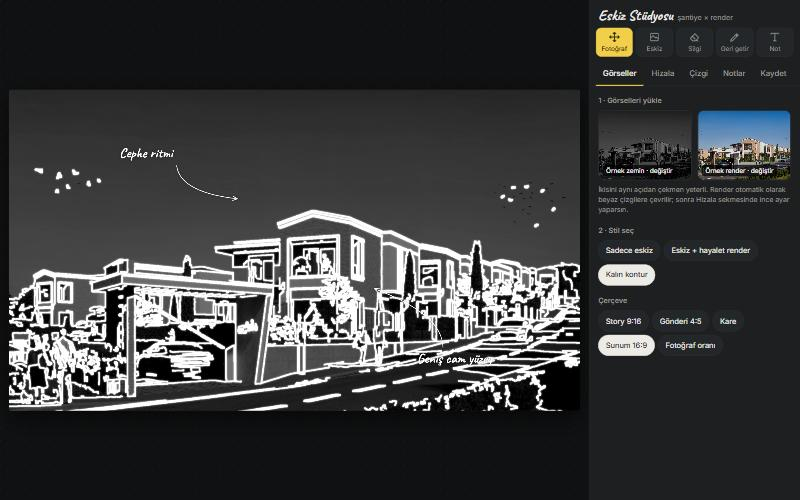
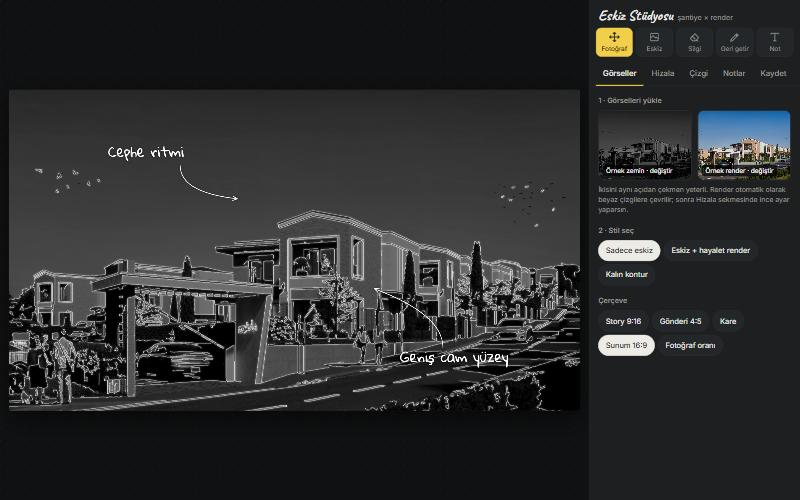
Eskiz önizlemesinde ince kontur

diff --git a/ai/santiye-eskiz.html b/ai/santiye-eskiz.html
@@ -510,7 +510,8 @@ function shrink(img,max){const s=Math.min(1,max/Math.max(img.width,img.height));
 function setThumb(id,url,tag){const el=$(id);el.classList.add('has');el.querySelector('div').innerHTML=`<img src="${url}" alt=""><span class="tag">${tag} · değiştir</span>`}
 $('#fPhoto').onchange=e=>loadFile(e.target.files[0],(img,url)=>{S.photo=shrink(img,2600);setThumb('#upPhoto',url,'Şantiye');
  if(S.fmt==='orig')setFmt('orig');maybeReprep();updEmpty();draw();e.target.value=''});
-$('#fRender').onchange=e=>loadFile(e.target.files[0],(img,url)=>{S.render=img;setThumb('#upRender',url,'Render');LW=0;prepRender();updEmpty();e.target.value=''});
+$('#fRender').onchange=e=>loadFile(e.target.files[0],(img,url)=>{PRESETS.sketch.edge.thick=0;PRESETS.ghost.edge.thick=0;S.edge.thick=0;S.look.glow=.15;PRESETS.sketch.look.glow=.15;PRESETS.ghost.look.glow=.2;syncSliders();
+  S.render=img;setThumb('#upRender',url,'Render');LW=0;prepRender();updEmpty();e.target.value=''});
 function updEmpty(){const el=$('#empty');el.style.display=S.photo&&S.render?'none':'grid';
  el.querySelector('div').innerHTML=!S.photo&&!S.render?'<b>Şantiye + render → eskiz</b>Önce şantiye fotoğrafını, sonra aynı açıdaki render\'ı yükle.':!S.photo?'<b>Şimdi şantiye fotoğrafı</b>Render hazır, zemin fotoğrafını ekle.':'<b>Şimdi render</b>Fotoğraf hazır, aynı açıdaki render\'ı ekle.'}
 
@@ -550,13 +551,14 @@ renderNotes();updInfo();setFmt('story');
   const c=document.createElement('canvas');c.width=img.width;c.height=img.height;const x=c.getContext('2d');
   x.filter='grayscale(1) brightness(.5) contrast(1.15)';x.drawImage(img,0,0);
   S.photo=shrink(c,2600);setThumb('#upPhoto',c.toDataURL('image/jpeg',.6),'Örnek zemin');
+  PRESETS.sketch.edge.thick=0;PRESETS.ghost.edge.thick=0;S.edge.thick=0;S.look.glow=.15;PRESETS.sketch.look.glow=.15;PRESETS.ghost.look.glow=.2;syncSliders();
   S.render=img;setThumb('#upRender',img.src,'Örnek render');
   setFmt('wide');LW=0;prepRender();updEmpty();
   S.notes.push({id:nid++,text:'Cephe ritmi',x:.24,y:.2,tx:.4,ty:.34,cx:.3,cy:.32,arrow:true},
                {id:nid++,text:'Geniş cam yüzey',x:.78,y:.84,tx:.64,ty:.62,cx:.76,cy:.7,arrow:true});
   renderNotes();draw();
-  const order=['ghost','bold','sketch'];let i=0;
-  (function cycle(){setTimeout(()=>{if(stop)return;const b=document.querySelector(`#presets .chip[data-p="${order[i++%3]}"]`);b&&b.click();cycle()},3200)})();
+  const order=['ghost','sketch'];let i=0;
+  (function cycle(){setTimeout(()=>{if(stop)return;const b=document.querySelector(`#presets .chip[data-p="${order[i++%2]}"]`);b&&b.click();cycle()},3200)})();
  };
  img.src='../assets/proje5/01.jpg';
 })();

diff --git a/index.html b/index.html
@@ -7,13 +7,13 @@
   <link rel="preconnect" href="https://fonts.googleapis.com" />
   <link rel="preconnect" href="https://fonts.gstatic.com" crossorigin />
   <link href="https://fonts.googleapis.com/css2?family=Inter+Tight:wght@300;400;500&display=swap" rel="stylesheet" />
-  <link rel="stylesheet" href="style.css?v=202611211728" />
+  <link rel="stylesheet" href="style.css?v=20261121173014" />
 </head>
 <body>
   <!-- Sayfa, script.js tarafından data.js'e göre oluşturulur -->
   <div id="app"></div>
-  <script src="data.js?v=202611211728"></script>
-  <script src="script.js?v=202611211728"></script>
-  <script src="editor.js?v=202611211728"></script>
+  <script src="data.js?v=20261121173014"></script>
+  <script src="script.js?v=20261121173014"></script>
+  <script src="editor.js?v=20261121173014"></script>
 </body>
 </html>
